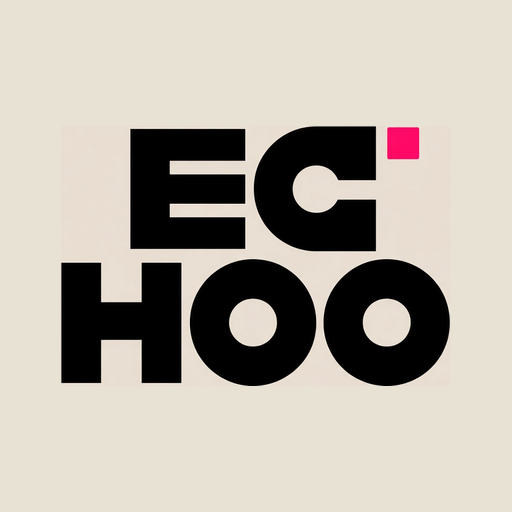
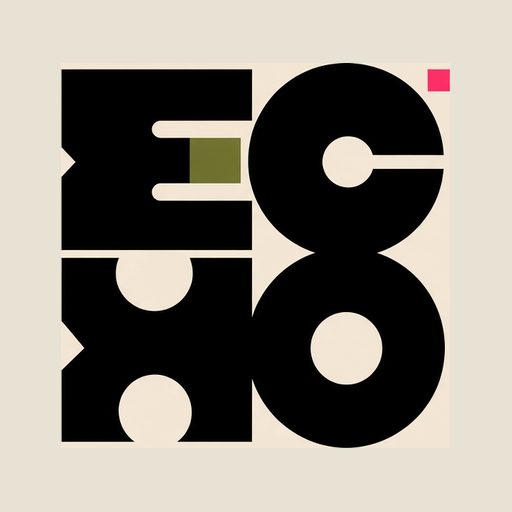
Rebuild the mark as a fused MOOD grid and the wordmark as condensed MORPH type.
The icon is a locked ECHO block with circular bite-outs. Login uses the ultra-black ECHOO with hat-O letterforms. Display type switches to Anton. Palette chips on login show olive, pink, orange, beige, and gray.

diff --git a/frontend/src/index.css b/frontend/src/index.css
@@ -14,7 +14,7 @@
   --mute: #6e6c67;
   --gray: #8c8a84;
   --paper: #f7f3ea;
-  --radius: 10px;
+  --radius: 8px;
 }
 
 * { box-sizing: border-box; }
@@ -37,7 +37,7 @@ body {
   -webkit-font-smoothing: antialiased;
 }
 h1, h2, h3, .display {
-  font-family: "Archivo Black", Outfit, "Noto Sans TC", sans-serif;
+  font-family: Anton, Outfit, "Noto Sans TC", sans-serif;
   letter-spacing: -0.04em;
   font-weight: 400;
   color: var(--ink);
@@ -312,9 +312,26 @@ input, select, textarea {
 .slogan-inline {
   margin: 4px 0 2px;
   text-align: left;
-  letter-spacing: 0.12em;
+  letter-spacing: 0.22em;
   font-size: 0.62rem;
 }
+.brand-dots {
+  display: flex;
+  justify-content: center;
+  gap: 8px;
+  margin: 12px 0 4px;
+}
+.brand-dots i {
+  width: 14px;
+  height: 14px;
+  display: block;
+  border-radius: 2px;
+}
+.brand-dots .d-olive { background: var(--olive); }
+.brand-dots .d-pink { background: var(--pink); }
+.brand-dots .d-orange { background: var(--orange); }
+.brand-dots .d-beige { background: #e8e2d4; border: 1px solid var(--line); }
+.brand-dots .d-gray { background: var(--gray); }
 
 .beat-block { min-width: 0; }
 .beat-line {
@@ -324,7 +341,7 @@ input, select, textarea {
   overflow-wrap: anywhere;
 }
 .beat-hero .beat-line {
-  font-family: "Archivo Black", Outfit, "Noto Sans TC", sans-serif;
+  font-family: Anton, Outfit, "Noto Sans TC", sans-serif;
   font-size: 2.1rem;
   line-height: 1.15;
   letter-spacing: -0.04em;
@@ -444,7 +461,7 @@ input, select, textarea {
   right: 56px;
   bottom: 14px;
   margin: 0;
-  font-family: "Archivo Black", Outfit, "Noto Sans TC", sans-serif;
+  font-family: Anton, Outfit, "Noto Sans TC", sans-serif;
   font-size: 1.35rem;
   font-weight: 400;
   letter-spacing: -0.03em;

diff --git a/frontend/src/App.jsx b/frontend/src/App.jsx
@@ -560,6 +560,9 @@ export default function App() {
         <form onSubmit={submitAuth} className="panel w-full max-w-md p-5 flex flex-col min-h-0 my-auto">
           <img src="/logo.png" alt="ECHOO" className="brand-seal mx-auto" />
           <p className="slogan">{tr("tag")}</p>
+          <div className="brand-dots" aria-hidden="true">
+            <i className="d-olive" /><i className="d-pink" /><i className="d-orange" /><i className="d-beige" /><i className="d-gray" />
+          </div>
           <h1 className="text-2xl mt-3 text-center">{authMode === "login" ? tr("login") : tr("register")}</h1>
           <label className="block mt-4 text-sm text-[var(--mute)]">{tr("username")}
             <input value={handle} onChange={(e) => setHandle(e.target.value)} className="field mt-1" />

diff --git a/frontend/index.html b/frontend/index.html
@@ -10,7 +10,7 @@
     <link rel="icon" type="image/png" href="/icon-192.png" />
     <link rel="preconnect" href="https://fonts.googleapis.com" />
     <link rel="preconnect" href="https://fonts.gstatic.com" crossorigin />
-    <link href="https://fonts.googleapis.com/css2?family=Archivo+Black&family=Outfit:wght@500;600;700;800&family=Noto+Sans+TC:wght@500;700&family=Noto+Sans+JP:wght@500;700&family=Noto+Sans+KR:wght@500;700&display=swap" rel="stylesheet" />
+    <link href="https://fonts.googleapis.com/css2?family=Anton&family=Outfit:wght@500;600;700;800&family=Noto+Sans+TC:wght@500;700&family=Noto+Sans+JP:wght@500;700&family=Noto+Sans+KR:wght@500;700&display=swap" rel="stylesheet" />
     <title>ECHOO</title>
   </head>
   <body>

diff --git a/frontend/public/sw.js b/frontend/public/sw.js
@@ -1,4 +1,4 @@
-const CACHE = "echoo-v6";
+const CACHE = "echoo-v7";
 
 self.addEventListener("install", (event) => {
   event.waitUntil(
